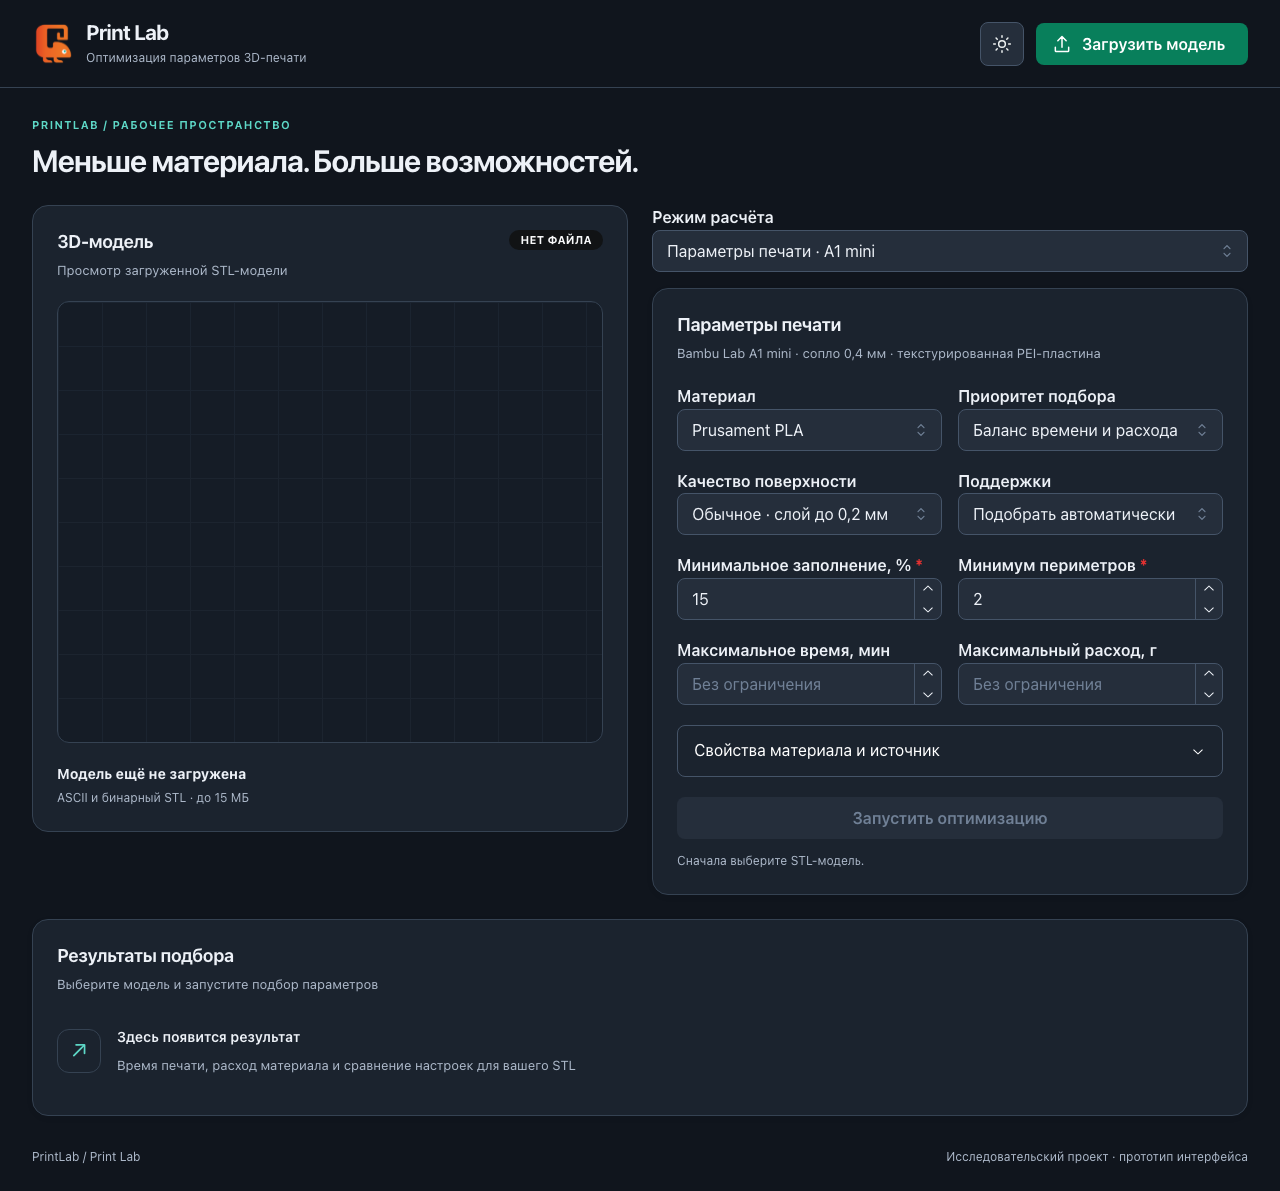
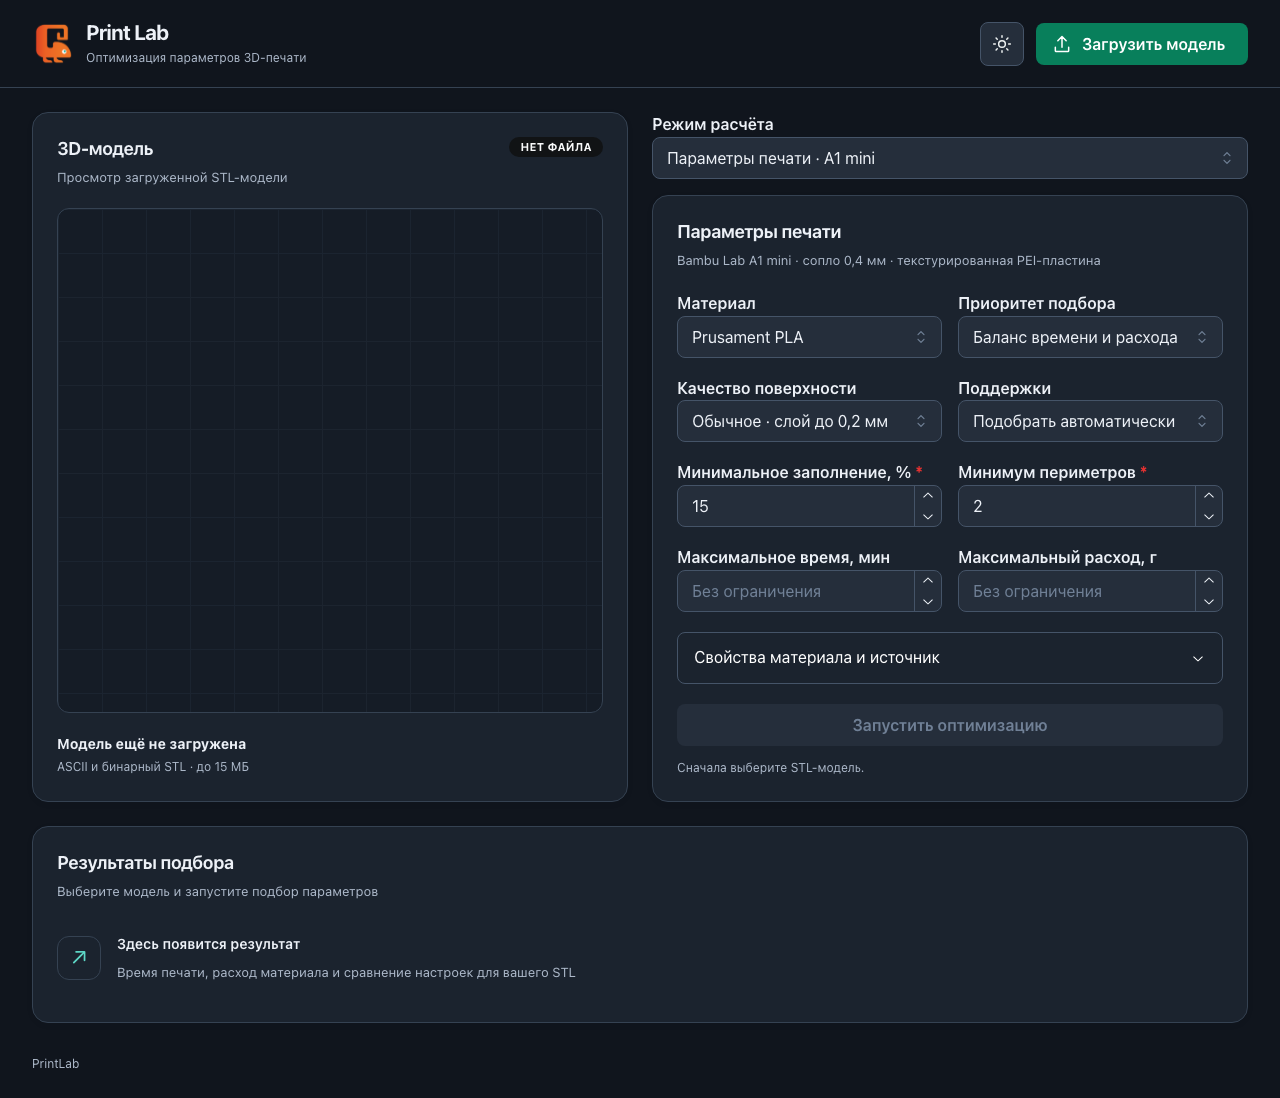
Remove extra workspace copy and align model and settings panels

diff --git a/e2e/model-viewer.spec.ts b/e2e/model-viewer.spec.ts
@@ -1,6 +1,21 @@
+import { PNG } from 'pngjs';
+import pixelmatch from 'pixelmatch';
 import AxeBuilder from '@axe-core/playwright';
 import { expect, test } from '@playwright/test';
 import catalog from '../src/test/material-catalog.json' with { type: 'json' };
+
+// Flexible canvas sizing can introduce imperceptible GPU/anti-aliasing differences.
+// Compare rendered pixels instead of PNG bytes; geometry must still match exactly
+// outside the small per-pixel color tolerance.
+function sameRenderedImage(actual: Buffer, expected: Buffer): boolean {
+  const a = PNG.sync.read(actual);
+  const b = PNG.sync.read(expected);
+  return (
+    a.width === b.width &&
+    a.height === b.height &&
+    pixelmatch(a.data, b.data, null, a.width, a.height, { threshold: 0.05 }) === 0
+  );
+}
 
 test.beforeEach(async ({ page }) => {
   await page.route('**/api/materials', (route) => route.fulfill({ json: catalog }));
@@ -30,14 +45,18 @@ test.beforeEach(async ({ page }) => {
   await expect(
     page.getByRole('img', { name: 'Предпросмотр геометрии STL-модели' }).locator('canvas'),
   ).toBeVisible();
+  await expect(
+    page.getByRole('img', { name: 'Предпросмотр геометрии STL-модели' }),
+  ).toHaveAttribute('aria-busy', 'false');
 });
 
 test('модель вращается мышью и клавиатурой, масштабируется колесом и сбрасывается', async ({
   page,
-}) => {
+}, testInfo) => {
   const surface = page.getByRole('img', { name: 'Предпросмотр геометрии STL-модели' });
   const points = () => surface.locator('canvas').screenshot();
   const initial = await points();
+  await testInfo.attach('viewer-initial', { body: initial, contentType: 'image/png' });
   await surface.scrollIntoViewIfNeeded();
   const bounds = await surface.boundingBox();
   if (!bounds) throw new Error('Область модели не видна');
@@ -47,16 +66,17 @@ test('модель вращается мышью и клавиатурой, ма
   await page.mouse.down();
   await page.mouse.move(x + 60, y + 45, { steps: 8 });
   await page.mouse.up();
-  expect(await points()).not.toEqual(initial);
+  await expect.poll(async () => (await points()).equals(initial)).toBe(false);
   const rotated = await points();
   await surface.press('ArrowUp');
-  expect(await points()).not.toEqual(rotated);
+  await expect.poll(async () => (await points()).equals(rotated)).toBe(false);
   const tilted = await points();
   await page.mouse.move(x, y);
   await page.mouse.wheel(0, -120);
-  await expect.poll(points).not.toEqual(tilted);
+  await expect.poll(async () => (await points()).equals(tilted)).toBe(false);
   await page.getByRole('button', { name: 'Сбросить вид' }).click();
-  expect(await points()).toEqual(initial);
+  await testInfo.attach('viewer-reset', { body: await points(), contentType: 'image/png' });
+  await expect.poll(async () => sameRenderedImage(await points(), initial)).toBe(true);
   await expect(page.getByRole('button', { name: 'Каркас' })).toHaveCount(0);
   await expect(page.getByLabel('Ракурс')).toHaveCount(0);
   await expect(surface.locator('text')).toHaveCount(0);
@@ -95,7 +115,7 @@ test('сенсорное вращение и щипок работают на м
     touchPoints: [{ x: x + 35, y: y + 30, id: 0 }],
   });
   await input.send('Input.dispatchTouchEvent', { type: 'touchEnd', touchPoints: [] });
-  await expect.poll(points).not.toEqual(initial);
+  await expect.poll(async () => (await points()).equals(initial)).toBe(false);
   const rotated = await points();
   await input.send('Input.dispatchTouchEvent', {
     type: 'touchStart',
@@ -112,7 +132,7 @@ test('сенсорное вращение и щипок работают на м
     ],
   });
   await input.send('Input.dispatchTouchEvent', { type: 'touchEnd', touchPoints: [] });
-  await expect.poll(points).not.toEqual(rotated);
+  await expect.poll(async () => (await points()).equals(rotated)).toBe(false);
   await input.detach();
 });
 

diff --git a/e2e/workspace-layout.spec.ts b/e2e/workspace-layout.spec.ts
@@ -1,0 +1,55 @@
+import { expect, test } from '@playwright/test';
+import catalog from '../src/test/material-catalog.json' with { type: 'json' };
+
+test('рабочая область без лишних надписей, панели выровнены при загрузке модели и раскрытии настроек', async ({
+  page,
+  isMobile,
+}, testInfo) => {
+  await page.route('**/api/materials', (route) => route.fulfill({ json: catalog }));
+  await page.goto('/');
+  await expect(page.getByLabel('Материал', { exact: true })).toHaveValue('prusament-pla');
+  await expect(
+    page.getByText(
+      /Меньше материала|Больше возможностей|РАБОЧЕЕ ПРОСТРАНСТВО|Исследовательский проект|прототип интерфейса/,
+    ),
+  ).toHaveCount(0);
+  await expect(page.getByRole('contentinfo')).toHaveText('PrintLab');
+
+  const model = page.getByRole('region', { name: '3D-модель', exact: true });
+  const settings = page.getByRole('region', { name: 'Настройки расчёта', exact: true });
+  async function expectAlignedPanels() {
+    await expect
+      .poll(async () => {
+        const [left, right] = await Promise.all([model.boundingBox(), settings.boundingBox()]);
+        if (!left || !right) return Infinity;
+        if (isMobile) return Math.max(0, left.y + left.height - right.y);
+        return Math.max(
+          Math.abs(left.y - right.y),
+          Math.abs(left.y + left.height - right.y - right.height),
+        );
+      })
+      .toBeLessThanOrEqual(1);
+    expect(await page.evaluate(() => document.documentElement.scrollWidth <= innerWidth)).toBe(
+      true,
+    );
+  }
+
+  await expectAlignedPanels();
+  await page.getByLabel('Выберите STL-модель').setInputFiles('fixtures/stepped-block.stl');
+  await expect(
+    page.getByRole('img', { name: 'Предпросмотр геометрии STL-модели' }),
+  ).toHaveAttribute('aria-busy', 'false');
+  await page.getByRole('button', { name: 'Закрыть уведомление' }).click();
+  await expectAlignedPanels();
+  await page.screenshot({ path: testInfo.outputPath('workspace-aligned.png'), fullPage: true });
+
+  await page.getByRole('button', { name: 'Свойства материала и источник' }).click();
+  await expect(page.getByText('Плотность', { exact: true })).toBeVisible();
+  await expectAlignedPanels();
+  await page.getByRole('button', { name: 'Данные испытаний', exact: true }).click();
+  await expect(page.getByText('Испытания напечатанных образцов')).toBeVisible();
+  await expectAlignedPanels();
+  await page.getByLabel('Режим расчёта').selectOption('LOAD');
+  await expect(page.getByLabel('Максимальная нагрузка, Н')).toBeVisible();
+  await expectAlignedPanels();
+});

diff --git a/src/pages/home/styles/home-page.module.css b/src/pages/home/styles/home-page.module.css
@@ -59,26 +59,6 @@
   height: 20px;
   object-fit: contain;
 }
-.home-page__intro {
-  padding-block: 28px 24px;
-}
-.home-page__intro h1 {
-  margin: 4px 0 0;
-  font-size: clamp(24px, 2.4vw, 32px);
-  line-height: 1.3;
-  letter-spacing: -0.04em;
-  font-weight: 650;
-}
-.home-page__eyebrow {
-  margin: 0 0 8px;
-  color: var(--teal);
-  font-size: 11px;
-  font-weight: 650;
-  letter-spacing: 0.12em;
-}
-.home-page__mobile-break {
-  display: none;
-}
 .home-page__file-input,
 .home-page__step,
 .home-page__silent,
@@ -93,17 +73,18 @@
   border: 0;
 }
 .home-page__main {
-  padding-bottom: 32px;
+  padding-block: 24px 32px;
 }
 .home-page__workspace {
   display: grid;
   grid-template-columns: minmax(0, 1fr) minmax(0, 1fr);
   gap: 24px;
-  align-items: start;
+  align-items: stretch;
 }
 .home-page__calculation-panel {
   min-width: 0;
   display: grid;
+  grid-template-rows: auto minmax(0, 1fr);
   gap: 16px;
 }
 .home-page__mode {
@@ -117,8 +98,9 @@
   box-shadow: 0 2px 8px #00000008;
 }
 .home-page__model-panel {
-  position: sticky;
-  top: 24px;
+  display: flex;
+  flex-direction: column;
+  min-height: 0;
 }
 .home-page__panel-header {
   display: flex;
@@ -127,6 +109,7 @@
   gap: 16px;
   padding: 24px 24px 20px;
 }
+.home-page__panel-header h1,
 .home-page__panel-header h2 {
   margin: 0 0 6px;
   font-size: 18px;
@@ -142,6 +125,9 @@
 }
 .home-page__viewport {
   position: relative;
+  display: flex;
+  flex-direction: column;
+  flex: 1;
   margin-inline: 24px;
   min-height: 360px;
   overflow: hidden;
@@ -151,8 +137,9 @@
 }
 .home-page__model-placeholder {
   display: grid;
+  flex: 1;
   place-items: center;
-  min-height: 440px;
+  min-height: 360px;
   background-image:
     linear-gradient(var(--color-border) 1px, transparent 1px),
     linear-gradient(90deg, var(--color-border) 1px, transparent 1px);
@@ -455,9 +442,6 @@
   .home-page__workspace {
     grid-template-columns: minmax(0, 1fr);
   }
-  .home-page__model-panel {
-    position: static;
-  }
   .home-page__model-placeholder {
     min-height: 340px;
   }
@@ -495,18 +479,13 @@
     font-size: 13px;
     padding-inline: 12px;
   }
-  .home-page__intro {
-    padding-block: 24px 20px;
-  }
-  .home-page__mobile-break {
-    display: initial;
-  }
   .home-page__workspace {
     gap: 20px;
   }
   .home-page__panel-header {
     padding: 20px 16px 16px;
   }
+  .home-page__panel-header h1,
   .home-page__panel-header h2 {
     font-size: 17px;
   }

diff --git a/src/pages/home/home-page.tsx b/src/pages/home/home-page.tsx
@@ -35,15 +35,6 @@ export function HomePage() {
         onUpload={openUpload}
       />
       <main id="main-content" className={styles['home-page__main']}>
-        <div className={styles['home-page__intro']}>
-          <div>
-            <p className={styles['home-page__eyebrow']}>PRINTLAB / РАБОЧЕЕ ПРОСТРАНСТВО</p>
-            <h1>
-              Меньше материала.
-              <br className={styles['home-page__mobile-break']} /> Больше возможностей.
-            </h1>
-          </div>
-        </div>
         <input
           ref={upload}
           id="stl-upload"
@@ -70,7 +61,10 @@ export function HomePage() {
             loading={model.loading}
             onRemove={model.remove}
           />
-          <div className={styles['home-page__calculation-panel']}>
+          <section
+            aria-label="Настройки расчёта"
+            className={styles['home-page__calculation-panel']}
+          >
             <NativeSelect
               className={styles['home-page__mode']}
               label="Режим расчёта"
@@ -100,7 +94,7 @@ export function HomePage() {
                 onChange={reset}
               />
             )}
-          </div>
+          </section>
         </div>
         {mode === 'PRINT' ? (
           <PrintPlanResults
@@ -120,10 +114,7 @@ export function HomePage() {
         )}
       </main>
       <footer className={styles['home-page__footer']}>
-        <span>
-          {env.appName} <span aria-hidden="true">/</span> Print Lab
-        </span>
-        <span>Исследовательский проект · прототип интерфейса</span>
+        <span>{env.appName}</span>
       </footer>
     </div>
   );

diff --git a/src/app/routes.test.tsx b/src/app/routes.test.tsx
@@ -13,7 +13,7 @@ describe('Маршруты приложения', () => {
       </MemoryRouter>,
     );
 
-    expect(screen.getByRole('heading', { level: 1 })).toHaveTextContent('Меньше материала.');
+    expect(screen.getByRole('heading', { level: 1 })).toHaveTextContent('3D-модель');
     expect(screen.getByRole('link', { name: /Print Lab/ })).toHaveAttribute('href', '/');
     expect(screen.getByText('Здесь появится результат')).toBeVisible();
   });
@@ -29,7 +29,7 @@ describe('Маршруты приложения', () => {
     expect(screen.getByRole('heading', { name: 'Страница не найдена' })).toBeVisible();
     await user.click(screen.getByRole('link', { name: 'На главную' }));
 
-    expect(screen.getByRole('heading', { level: 1 })).toHaveTextContent('Меньше материала.');
+    expect(screen.getByRole('heading', { level: 1 })).toHaveTextContent('3D-модель');
     expect(screen.queryByText('Страница не найдена')).not.toBeInTheDocument();
   });
 });

diff --git a/src/features/model-viewer/styles/model-viewer.module.css b/src/features/model-viewer/styles/model-viewer.module.css
@@ -1,15 +1,20 @@
 .model-viewer {
   position: relative;
   min-width: 0;
+  min-height: 0;
+  flex: 1;
   background: radial-gradient(ellipse at 50% 45%, #303e50 0%, #172130 75%);
   border-radius: inherit;
   display: flex;
   flex-direction: column;
 }
 .model-viewer__surface {
+  position: relative;
   display: block;
+  flex: 1 1 0;
+  min-height: 320px;
   width: 100%;
-  height: clamp(320px, 28vw, 440px);
+  height: 0;
   touch-action: none;
   user-select: none;
   cursor: grab;
@@ -21,6 +26,8 @@
   cursor: grabbing;
 }
 .model-viewer__surface canvas {
+  position: absolute;
+  inset: 0;
   display: block;
   width: 100%;
   height: 100%;
@@ -49,7 +56,7 @@
 }
 @media (max-width: 650px) {
   .model-viewer__surface {
-    height: 280px;
+    min-height: 280px;
   }
   .model-viewer__controls {
     gap: 8px;

diff --git a/src/pages/home/ui/model-panel.tsx b/src/pages/home/ui/model-panel.tsx
@@ -24,7 +24,7 @@ export function ModelPanel(props: ModelPanelProps) {
       <div className={styles['home-page__panel-header']}>
         <div>
           <span className={styles['home-page__step']}>01 / ГЕОМЕТРИЯ</span>
-          <h2 id="model-heading">3D-модель</h2>
+          <h1 id="model-heading">3D-модель</h1>
           <p>Просмотр загруженной STL-модели</p>
         </div>
         <Badge variant="light" color={model ? 'teal' : 'gray'}>

diff --git a/src/app/app.test.tsx b/src/app/app.test.tsx
@@ -5,5 +5,5 @@ import { App } from './app';
 
 it('собирает корневые провайдеры и маршрутизатор', () => {
   render(<App />);
-  expect(screen.getByRole('heading', { level: 1 })).toHaveTextContent('Меньше материала.');
+  expect(screen.getByRole('heading', { level: 1 })).toHaveTextContent('3D-модель');
 });

diff --git a/docs/ui-components.md b/docs/ui-components.md
@@ -42,6 +42,12 @@ NumberInput передаёт десятичные значения в обычн
 стрелками вызывают сброс устаревшего результата; сами по себе они не запускают запрос.
 Валидация диапазонов и целых значений остаётся в существующих парсерах запросов.
 
+На широких экранах блок модели и весь блок настроек (включая выбор режима)
+имеют одинаковую высоту. Область 3D занимает свободное место и изменяет размер
+при раскрытии свойств материала. На узких экранах блоки располагаются друг под
+другом с собственной высотой. Над рабочей областью нет рекламного заголовка,
+в футере оставлено только название приложения.
+
 Таблицы прокручиваются внутри карточки на узких экранах, а не растягивают страницу.
 Поля, переключение темы и загрузка файла доступны без мыши. В загруженном 3D-просмотре
 нет надписей, переключателей каркаса или ракурса. Удаление из просмотра остаётся
